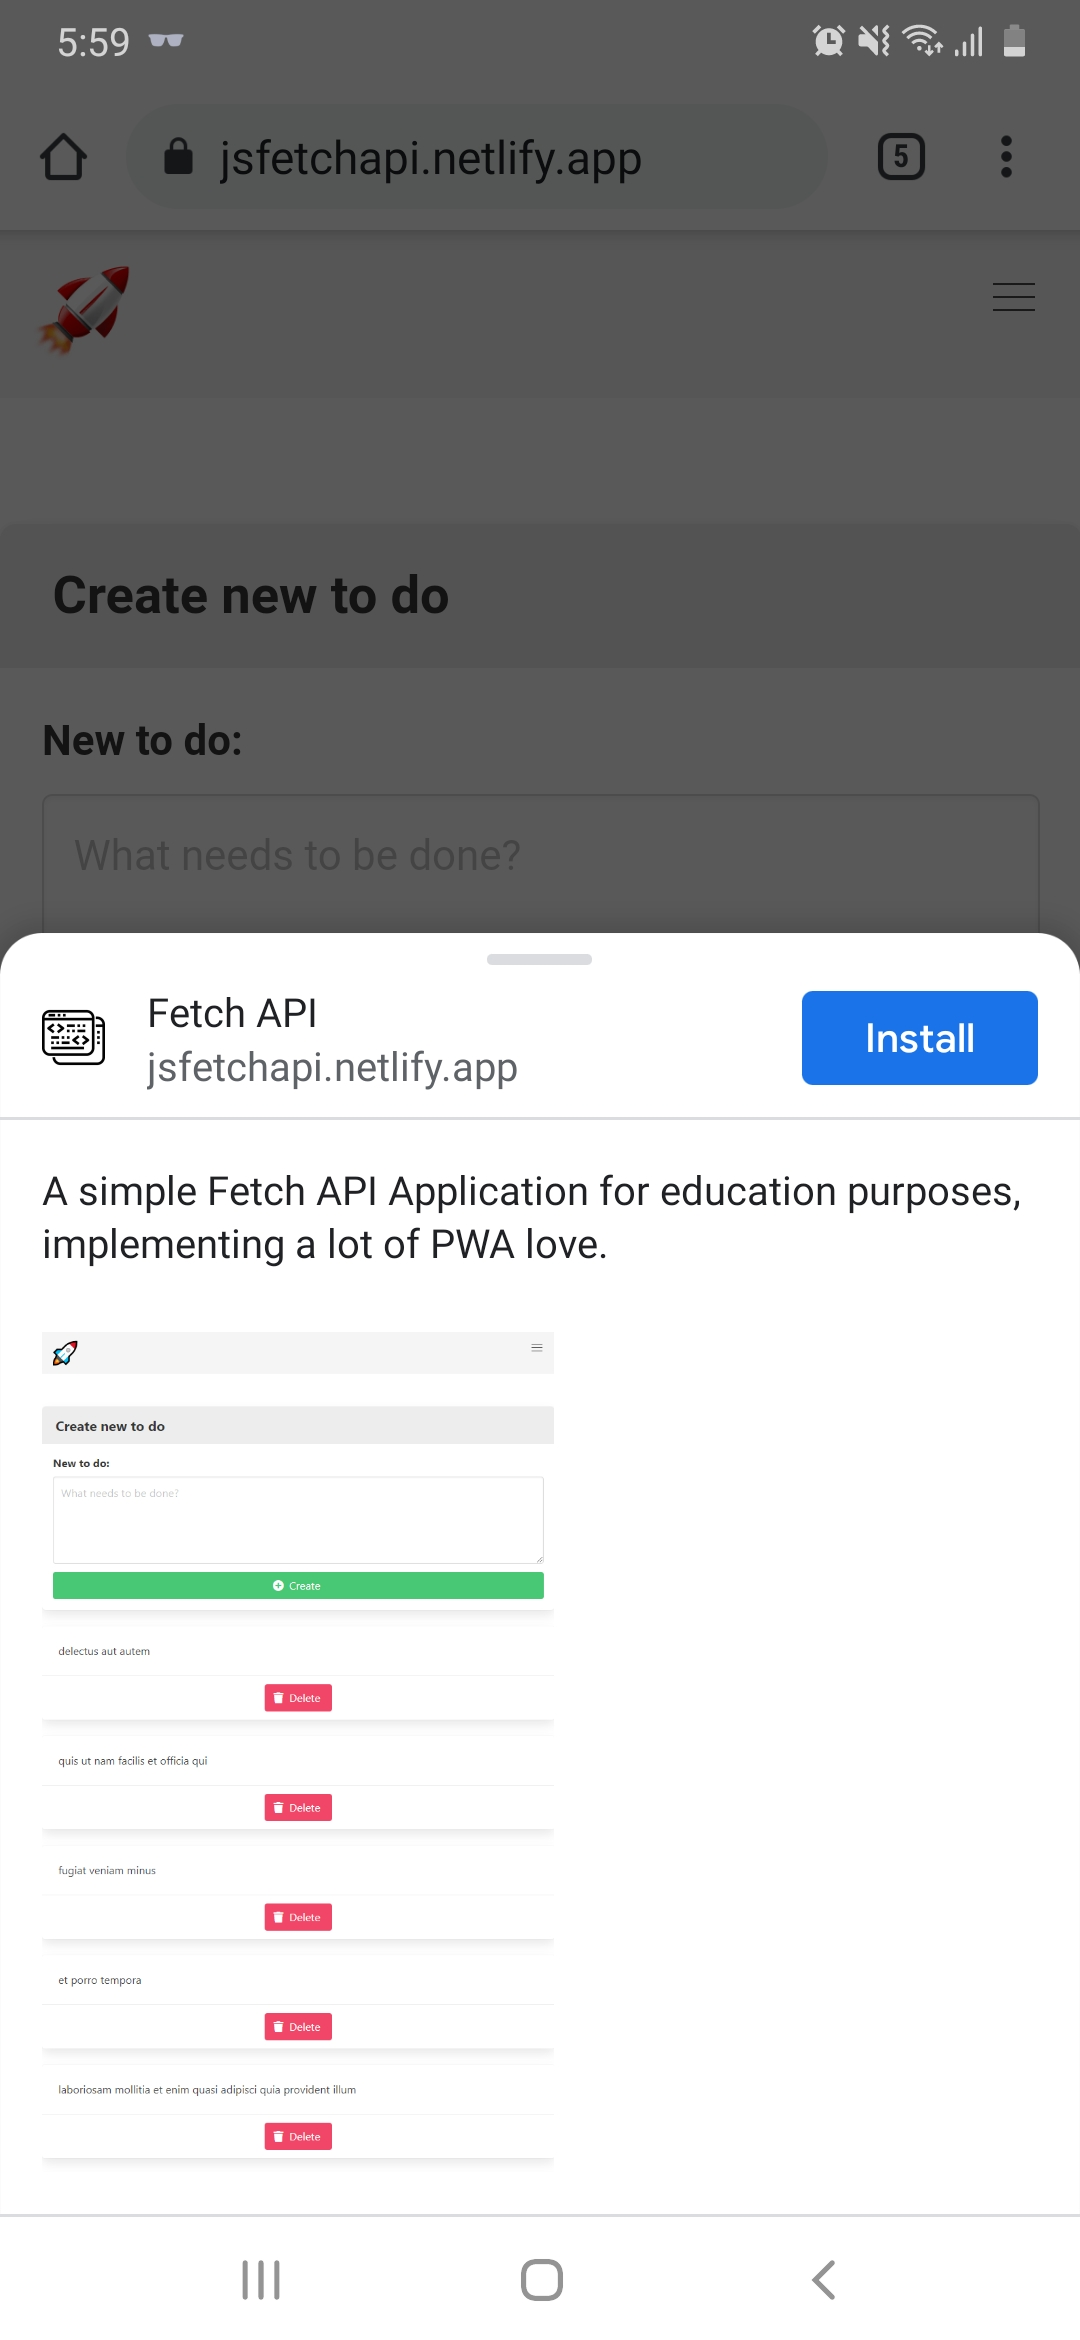
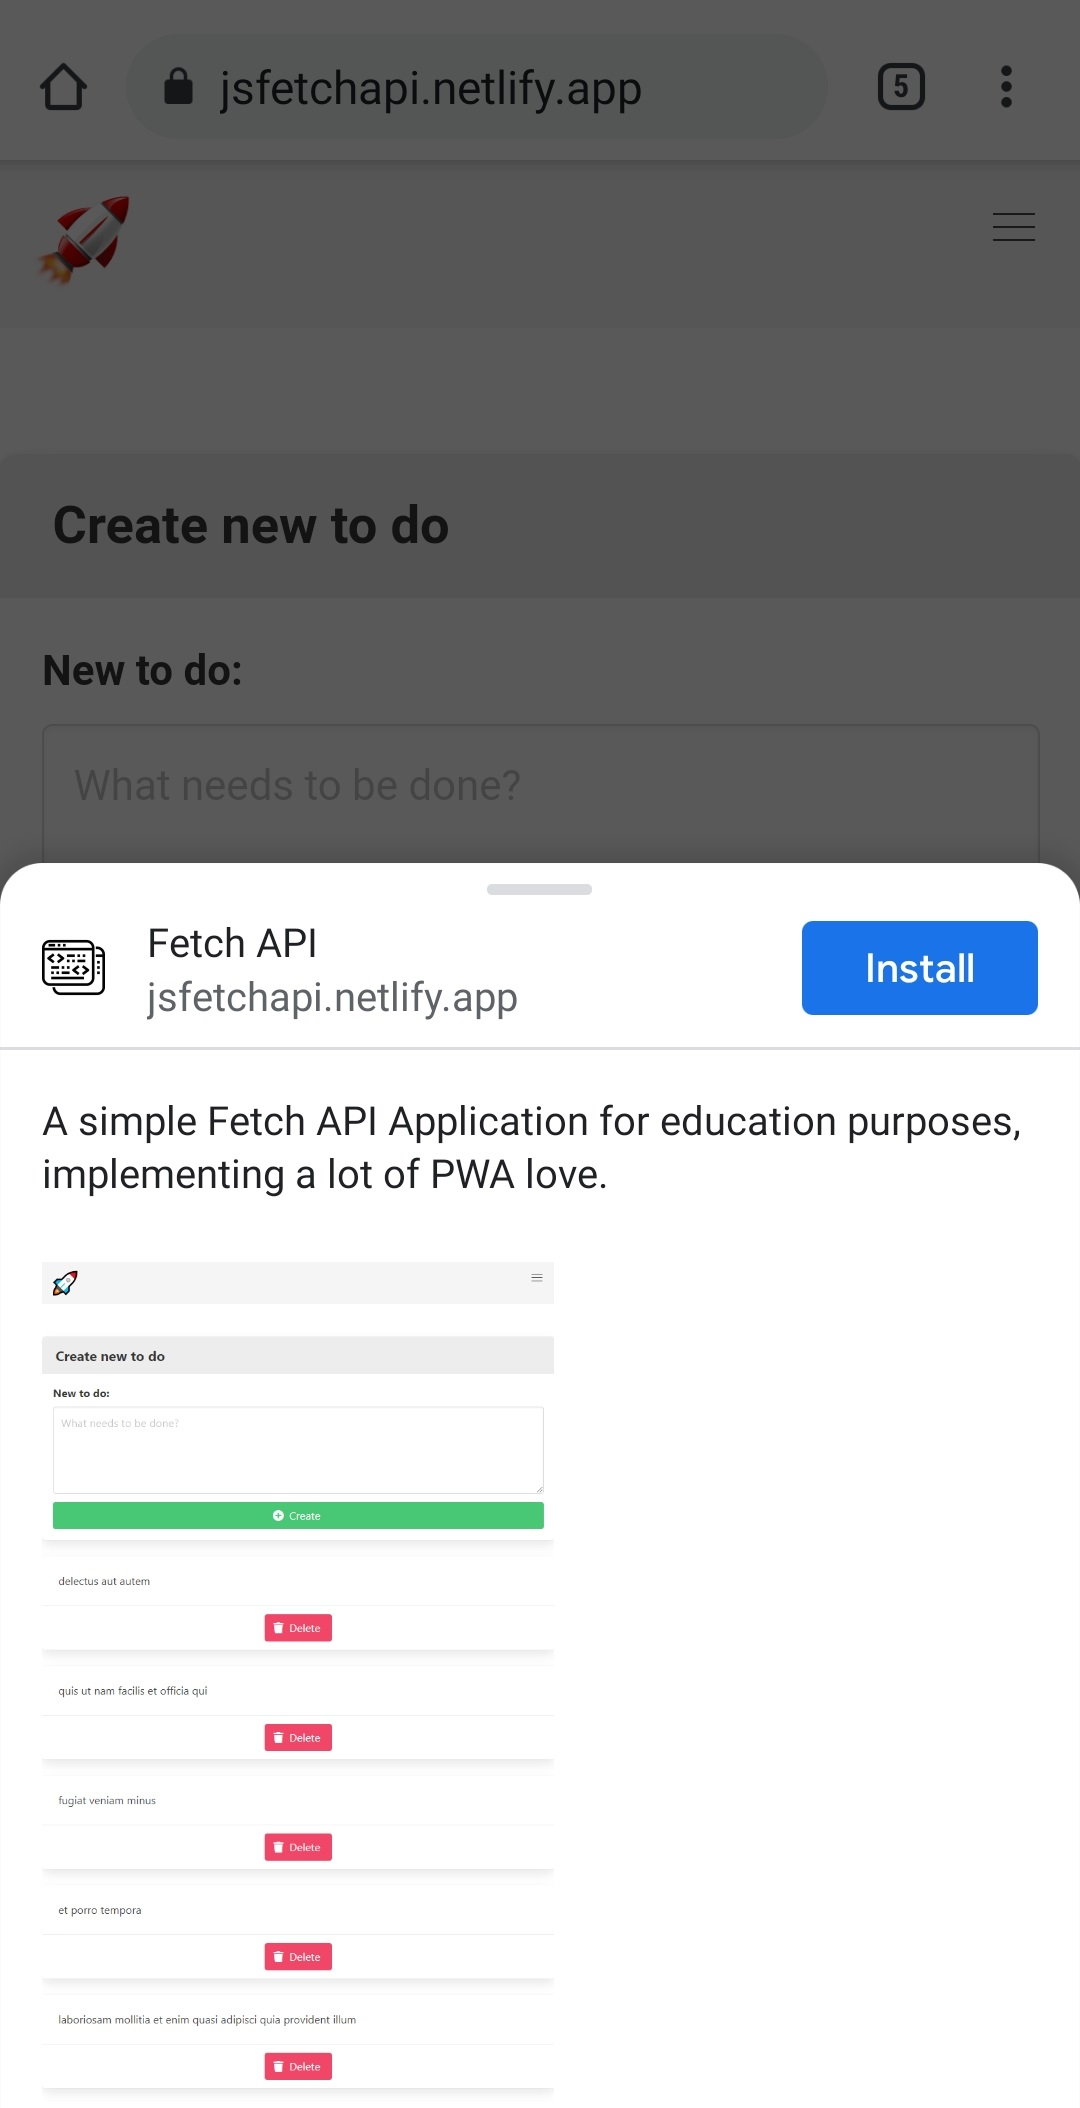
Add new screenshot, fix: height size

diff --git a/.build/webpack.production.js b/.build/webpack.production.js
@@ -55,9 +55,10 @@ const manifest = {
       sizes: '752x1233',
       type: 'image/png',
     },
+    // less than twice height
     {
       src: 'screenshots/mobile-screenshot.jpg',
-      sizes: '1080x2340',
+      sizes: '1080x2108',
       type: 'image/jpg',
     },
     {
